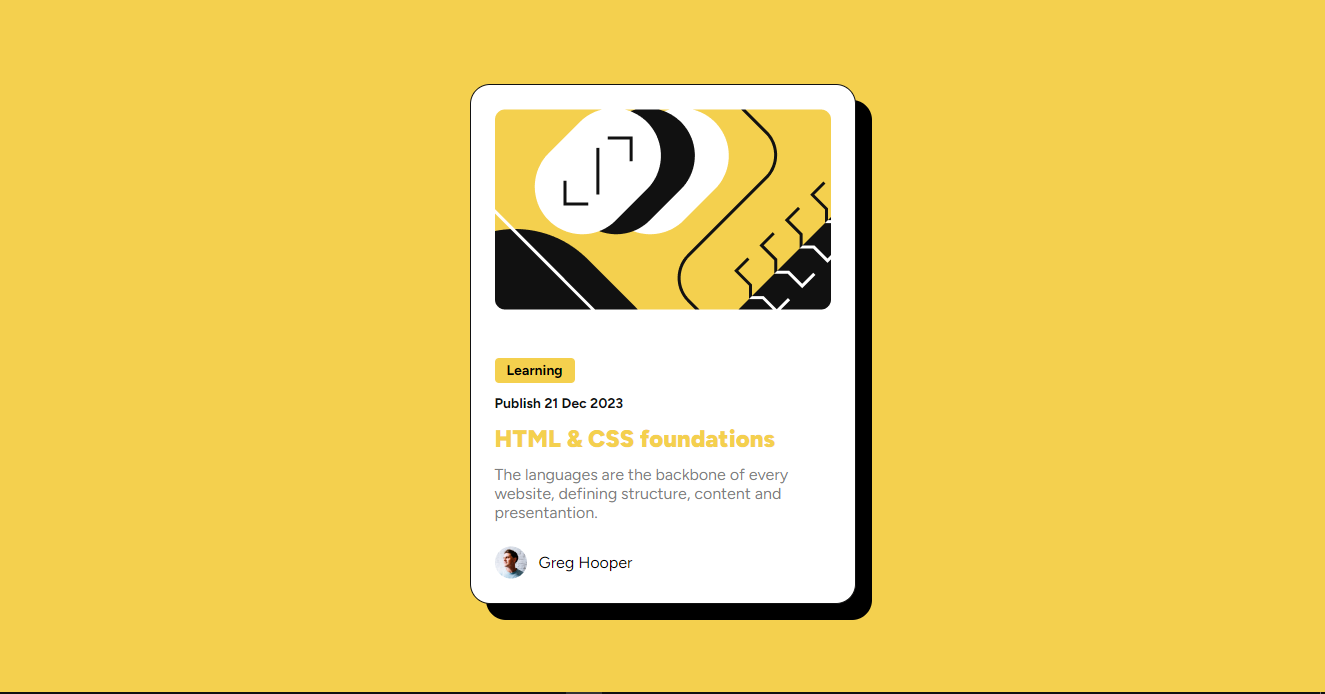
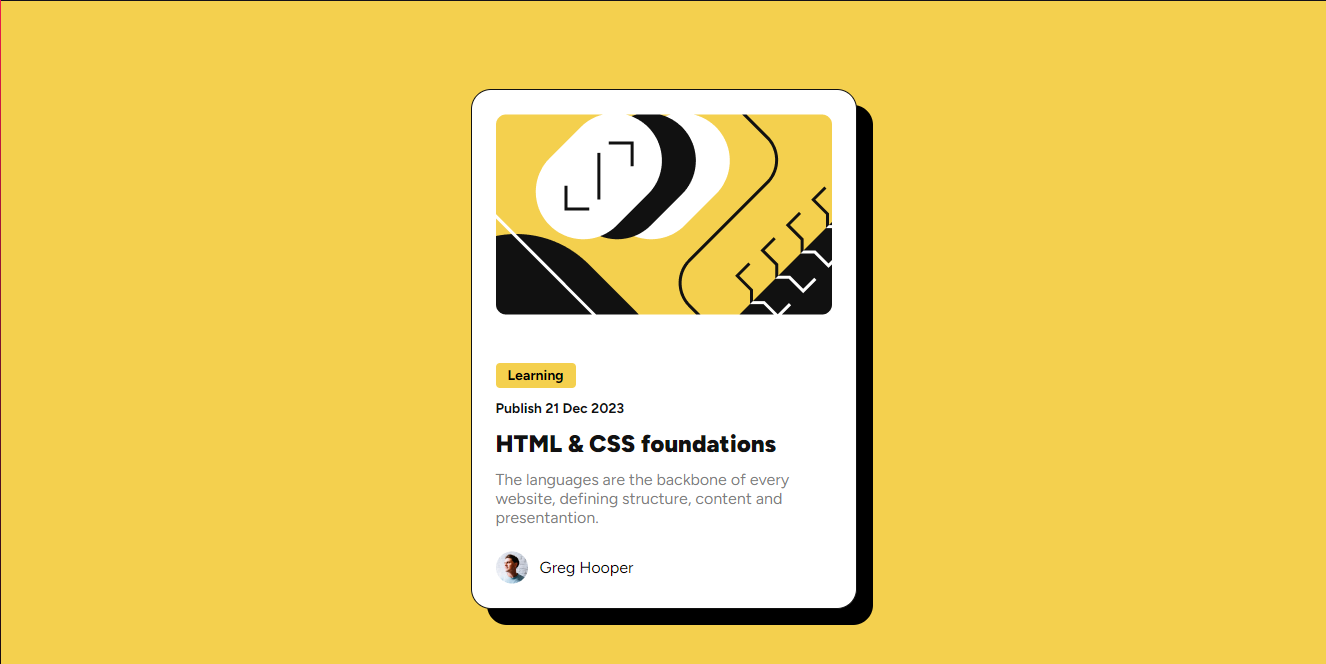
Changed the color of the title

Changed region(s): [[0.3404, 0.512, 0.6808, 0.9639], [0.3404, 0.1205, 0.6808, 0.4819], [0.0, 0.994, 1.0, 1.0]]

diff --git a/style.css b/style.css
@@ -63,7 +63,7 @@ body {
 
 .info h1 {
     font-size: 2.4rem;
-    color: #F4D04E;
+    color: #111111;
     font-weight: 900;
 }
 
